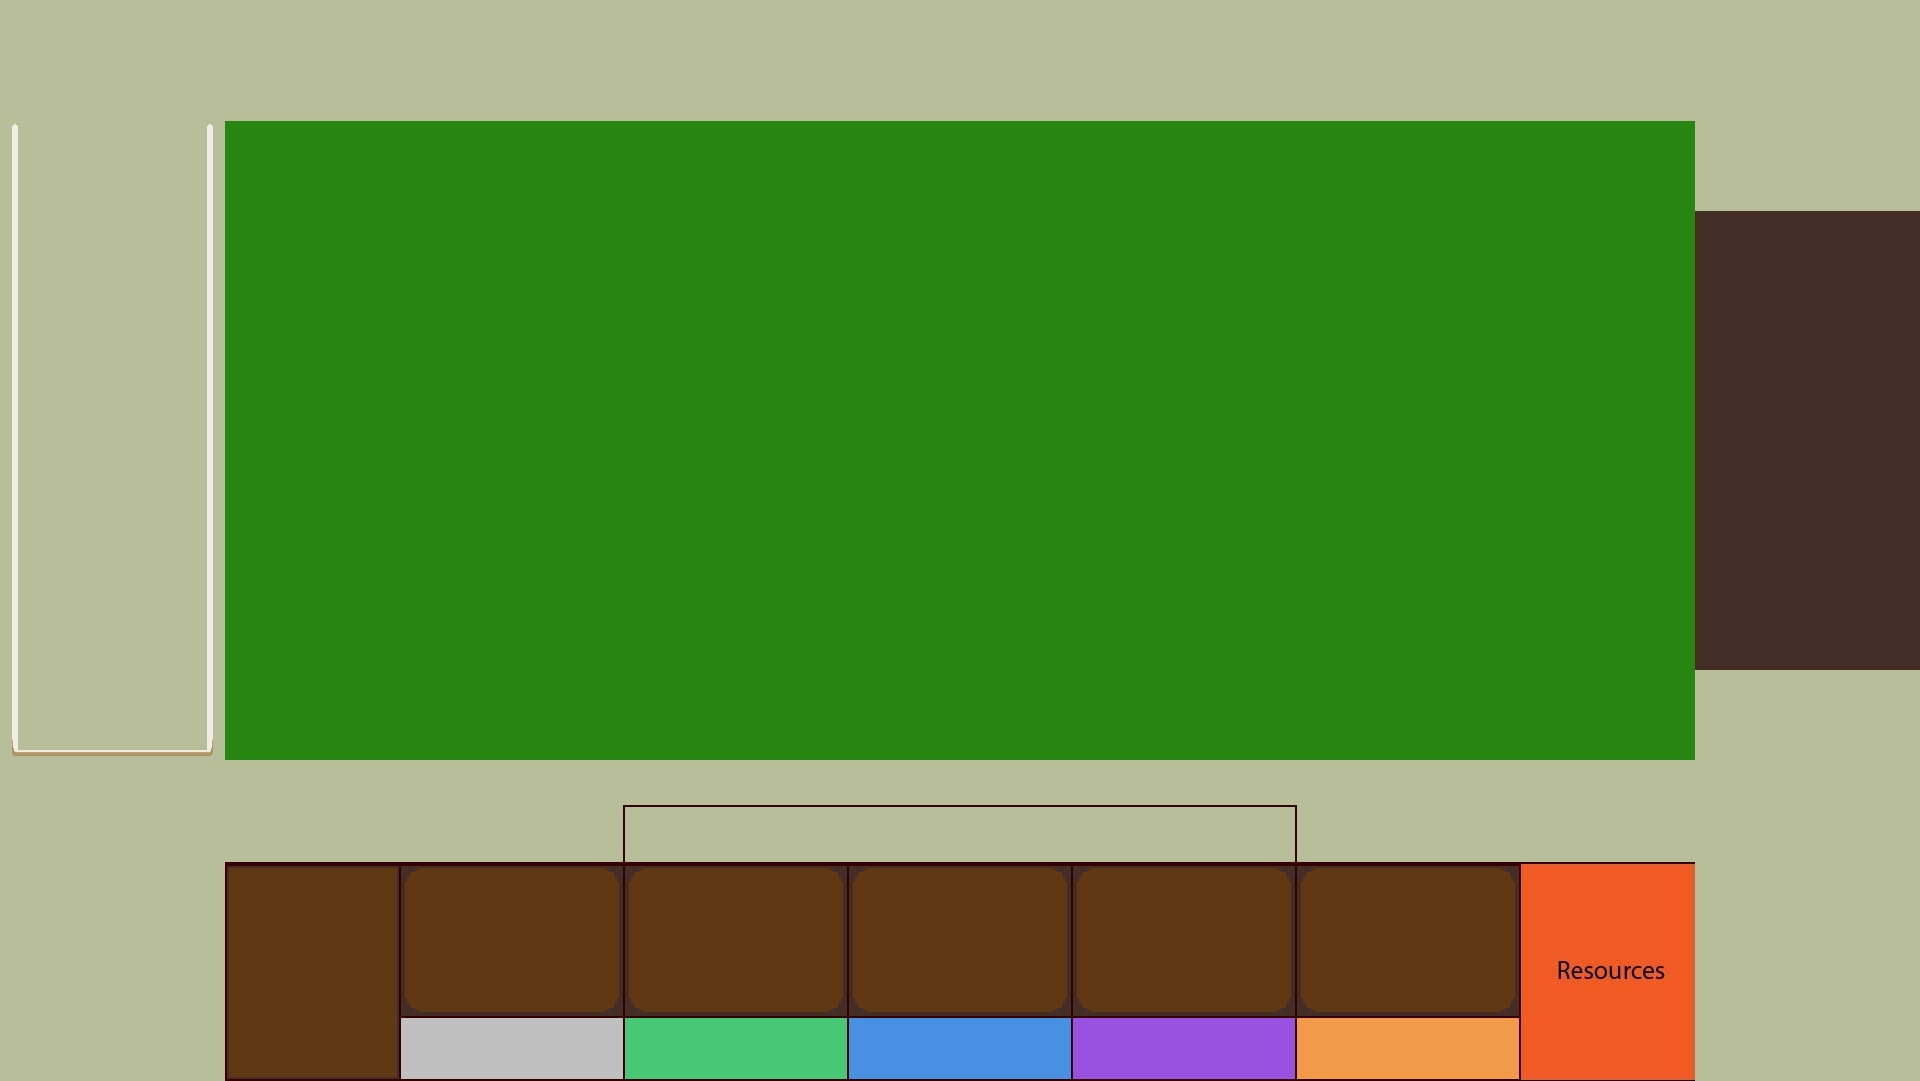
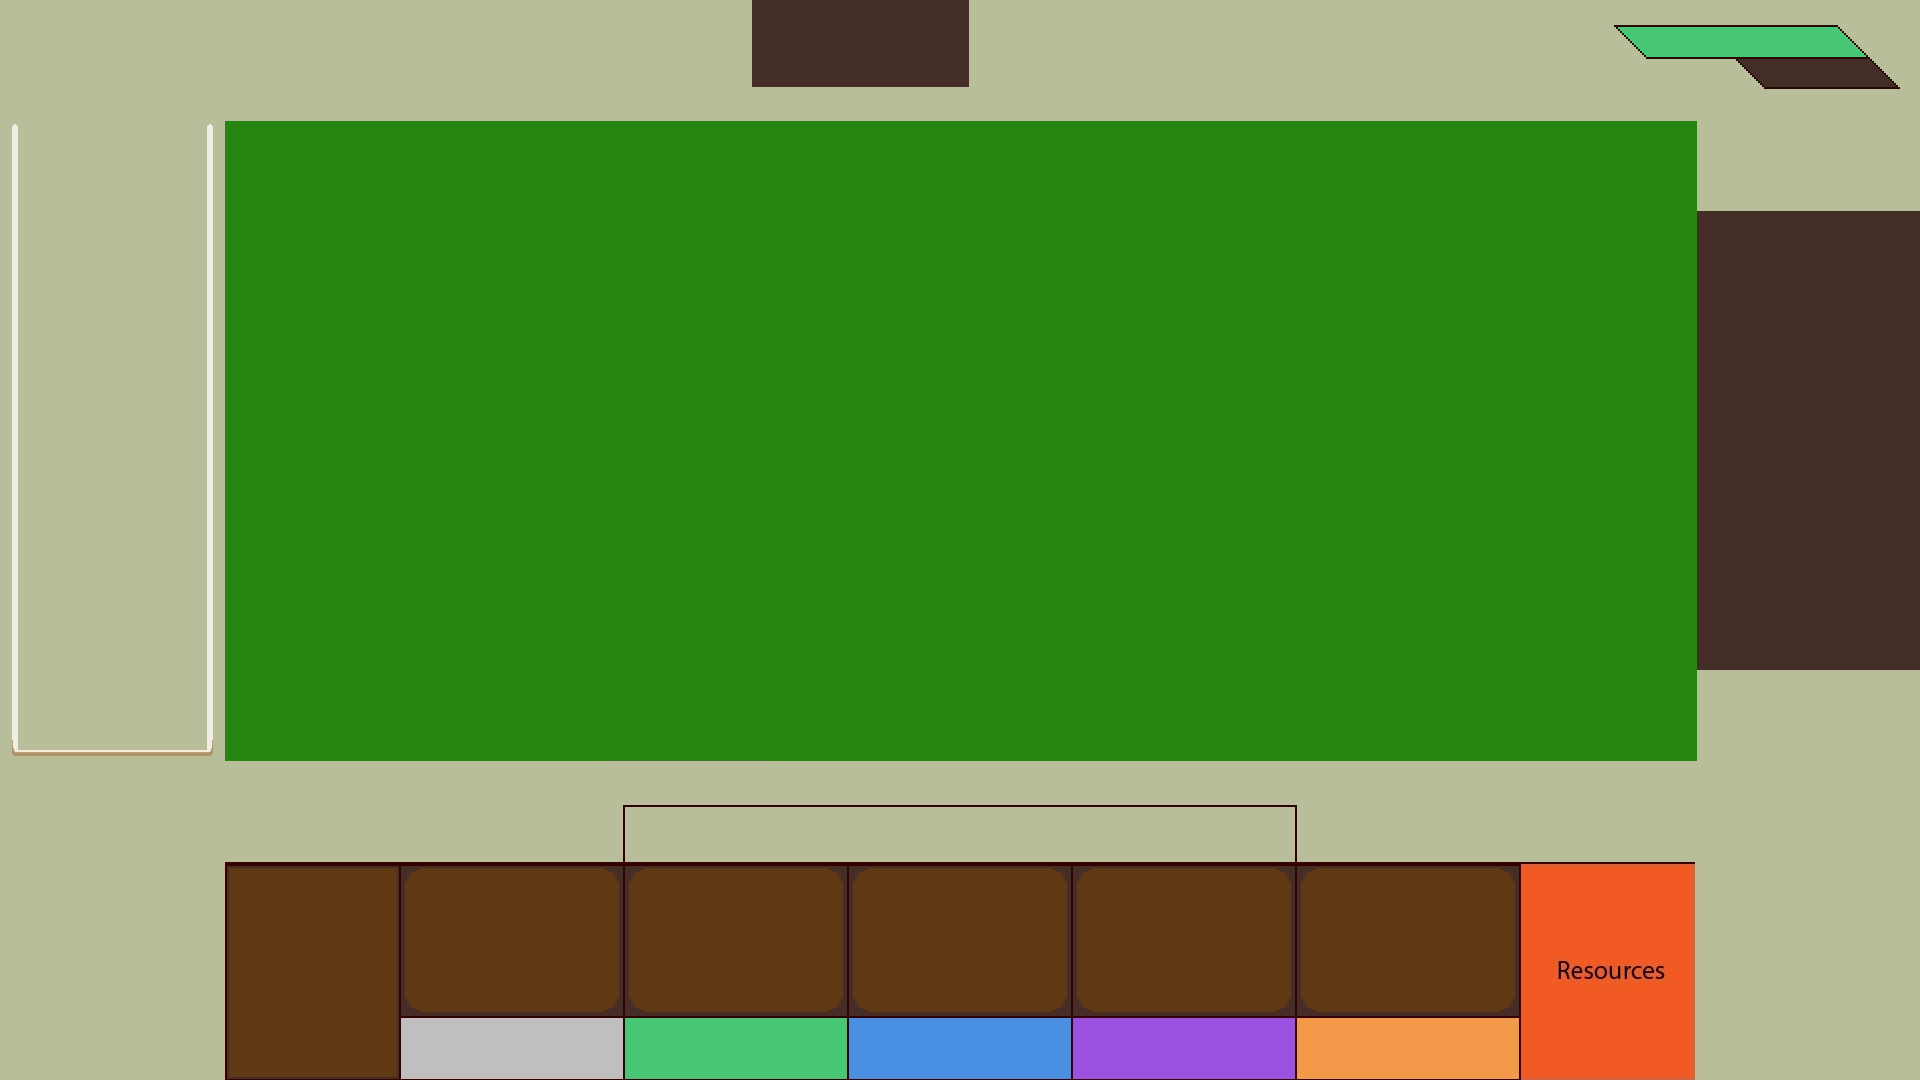
Cow Defenders 0.07
+ Enemies take damage
+ Enemies deal damage
+ Enemies can die

Changed region(s): [[0.375, 0.0, 0.5312, 0.0916], [0.8438, 0.0, 1.0, 0.0916]]

diff --git a/src/player.py b/src/player.py
@@ -2,7 +2,7 @@ from src.tower import Tower
 from src.shop import Shop
 from src.tower import Tower
 from src.settings import BENCH_SIZE, FONT_URL
-from pygame import sprite, font
+from pygame import sprite, font, draw
 from src.map import map1
 class Player:
     def __init__(self):
@@ -10,9 +10,10 @@ class Player:
         self.field = sprite.Group()
         self.chances: list[int] = [0,0,0,0,0]
         self.gold: int = 100
-        self.hp: int = 100
+        self.health: int = 100
         self.shop: Shop = Shop()
         self.cow_on_hold = None
+        self.health_color =self.transition_color_health_bar()
 
     def add_to_bench(self, tower:Tower):
         for index, slot in enumerate(self.bench):
@@ -41,12 +42,13 @@ class Player:
     def remove_gold(self, amount:int):
         self.gold -= amount
         
-    def add_hp(self, amount:int):
-        self.hp += amount
-    def remove_hp(self, amount:int):
-        self.hp -= amount
-    def set_hp(self, amount:int):
-        self.hp = amount
+    def add_health(self, amount:int):
+        self.health += amount
+    def remove_health(self, amount:int):
+        self.health = 0 if self.health <= amount else self.health - amount
+        self.transition_color_health_bar()
+    def set_health(self, amount:int):
+        self.health = amount
 
     def update(self):
         self.field.update()
@@ -60,7 +62,17 @@ class Player:
             self.cow_on_hold.render(screen)
         #Render money
         self.render_gold(screen)
+        #Render health
+        self.render_health(screen)
             
+    def transition_color_health_bar(self) -> None:
+
+        start_r, start_g, start_b = 172, 50, 50
+        end_r, end_g, end_b = 72, 200, 117
+        self.health_color = (int(start_r + (end_r - start_r) * self.health / 100),
+                             int(start_g + (end_g - start_g) * self.health / 100),
+                             int(start_b + (end_b - start_b) * self.health / 100),
+                             )
 
     def buy_card_from_shop(self, card_index:int):
         card = self.shop.content[card_index]
@@ -156,10 +168,16 @@ class Player:
         print(f"No upgrades available for {tower.name}.")
         return False
 
+    def render_health(self, screen) -> None:
+        if not self.health_color:
+            self.transition_color_health_bar()
+        draw.polygon(screen, self.health_color, ((1619, 27), (1619 + 218*self.health/100, 27), (1647 + 218*self.health/100, 56), (1647, 56)))
+        screen.blit(PLAYER_TEXT.render(str(self.health), True, (255,255,255)), (1800, 26))
+        
     def render_gold(self, screen) -> None:
-        screen.blit(MONEY_TEXT.render(str(self.gold), True, (0,0,0)) , (1800, 30))
+        screen.blit(PLAYER_TEXT.render(str(self.gold), True, (255,255,255)) , (1800, 57))
 
         
 
 player = Player()
-MONEY_TEXT = font.Font(FONT_URL, 32)
+PLAYER_TEXT = font.Font(FONT_URL, 28)

diff --git a/src/enemy.py b/src/enemy.py
@@ -7,11 +7,14 @@ class Enemy(sprite.Sprite):
     def __init__(self, name:str, health:int, move_speed:float, image_url:str=""):
         super().__init__()
         self.name = name
-        self.hp = health
+        self.max_health = health
+        self.current_health = health
         self.move_speed = move_speed
+        self.damage = 10
         self.size = TILE_SIZE
         self.center_pos = [MAP_START[0], MAP_START[1] + 8 * TILE_SIZE]
         self.checkpoint = 0
+        self.player = None
 
         if image_url:
             self.image = pygame.image.load(image_url)
@@ -35,6 +38,9 @@ class Enemy(sprite.Sprite):
 
             if self.center_pos == list(next_target):
                 self.checkpoint += 1
+        else:
+            self.player.remove_health(self.damage)
+            self.on_death()
 
     def render(self, screen):
         if self.image:
@@ -43,11 +49,37 @@ class Enemy(sprite.Sprite):
         else:
             pygame.draw.rect(screen, (255, 0, 0), (self.center_pos[0] - self.size / 2, self.center_pos[1] - self.size / 2, self.size, self.size))
 
+        #Draw healthbar
+        health_bar_width = self.size
+        health_bar_height = 5
+        health_bar_x = self.center_pos[0] - self.size / 2
+        health_bar_y = self.center_pos[1] - self.size / 2 - health_bar_height - 2
+
+        current_health_width = int((self.current_health / self.max_health) * health_bar_width)
+        health_bar_background = pygame.Rect(health_bar_x, health_bar_y, health_bar_width, health_bar_height)
+        current_health_rect = pygame.Rect(health_bar_x, health_bar_y, current_health_width, health_bar_height)
+
+        pygame.draw.rect(screen, (128, 128, 128), health_bar_background)
+
+        pygame.draw.rect(screen, (0, 255, 0), current_health_rect)
+
+    def take_damage(self, amount):
+        if amount >= self.current_health:
+            self.on_death()
+        else:
+            self.current_health -= amount
+    def on_death(self):
+        enemies_on_map.remove(self)
+
+    def set_player(self, player):
+        self.player = player
     def __str__(self):
         return super().__str__()
     def __repr__(self):
         return super().__repr__()
 # Example usage
 enemy1 = Enemy("Asni", 100, 2, "assets/maps/enemy_green_slime.png")
+# enemy2 = Enemy("Asni", 100, 2, "assets/maps/enemy_green_slime.png")
+# enemy3 = Enemy("Asni", 100, 2, "assets/maps/enemy_green_slime.png")
 enemies_on_map = sprite.Group()
 enemies_on_map.add(enemy1)

diff --git a/src/ui.py b/src/ui.py
@@ -5,6 +5,7 @@ pygame.init()
 
 class Hud:
     def __init__(self, image_url):
+        # Load and convert image for faster blitting
         self.image = pygame.image.load(image_url)
         self.money_text = 50
         self.font = pygame.font.Font(FONT_URL, 32)
@@ -12,23 +13,28 @@ class Hud:
         self.cards = []
         
         # Pre-render static text
-        self.bench_text = self.font.render('Bench', True, (0,0,0))
+        self.bench_text = self.font.render('Bench', True, (0, 0, 0))
         self.cached_money_text = {}  # Cache for money text surfaces
+        
+        # Pre-render static elements to a surface
+        self.ui_surface = pygame.Surface(self.image.get_size(), pygame.SRCALPHA)
+        self.ui_surface.blit(self.image, (0, 0))
+        pygame.draw.rect(self.ui_surface, (200, 0, 0), self.pause_button_rect)
+        self.ui_surface.blit(self.bench_text, (70, 120))
 
     def update(self):
         self.money_text += 1
 
     def render(self, screen):
-        screen.blit(self.image, (0, 0))
-        pygame.draw.rect(screen, (200, 0, 0), self.pause_button_rect)
+        # Blit pre-rendered UI surface
+        screen.blit(self.ui_surface, (0, 0))
         
         # Cache and render money text
-        money_value = str(self.money_text//FPS)
+        money_value = str(self.money_text // FPS)
         if money_value not in self.cached_money_text:
             self.cached_money_text[money_value] = self.font.render(money_value, True, (0, 0, 0))
         screen.blit(self.cached_money_text[money_value], (30, 30))
-        screen.blit(self.bench_text, (70, 120))
-    
+
     def handle_click_events(self, mouse_pos):
         if self.pause_button_rect.collidepoint(mouse_pos):
             print("Pause Clicked")

diff --git a/src/tower.py b/src/tower.py
@@ -25,6 +25,7 @@ class Tower(sprite.Sprite):
     def update(self):
         self.find_closest_target()
         self.rotate_to_target()
+        self.attack_enemy()
 
     def render(self, screen):
         if self.image:
@@ -92,6 +93,9 @@ class Tower(sprite.Sprite):
     def star_up(self):
         self.level += 1
 
+    def attack_enemy(self):
+        if self.target_enemy:
+            self.target_enemy.take_damage(0.1)
 
 # for j in range(0, 10):
 #     for i in range(0, 20):

diff --git a/src/game.py b/src/game.py
@@ -17,7 +17,6 @@ class Game:
         pygame.display.set_caption("Cow Defenders")
         self.running = True
 
-
         self.clock = pygame.time.Clock()
 
     def run(self):
@@ -70,6 +69,7 @@ class Game:
         player.render(self.screen)
         #Render enemies
         for enemy in enemies_on_map:
+            enemy.set_player(player)
             enemy.render(self.screen)
 
         
